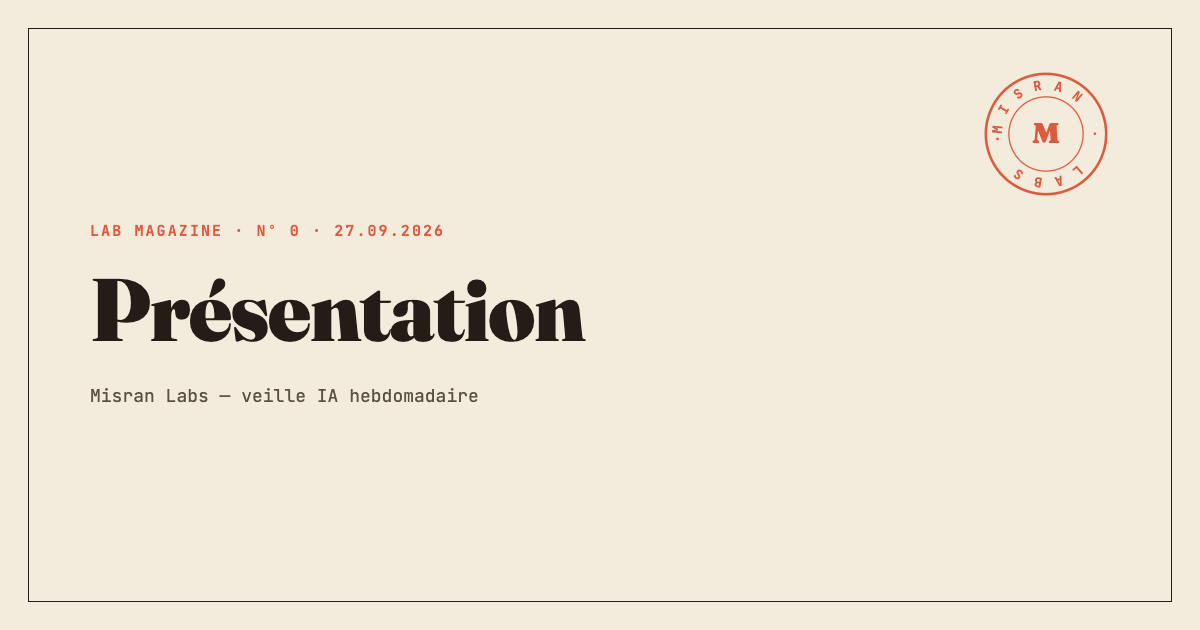
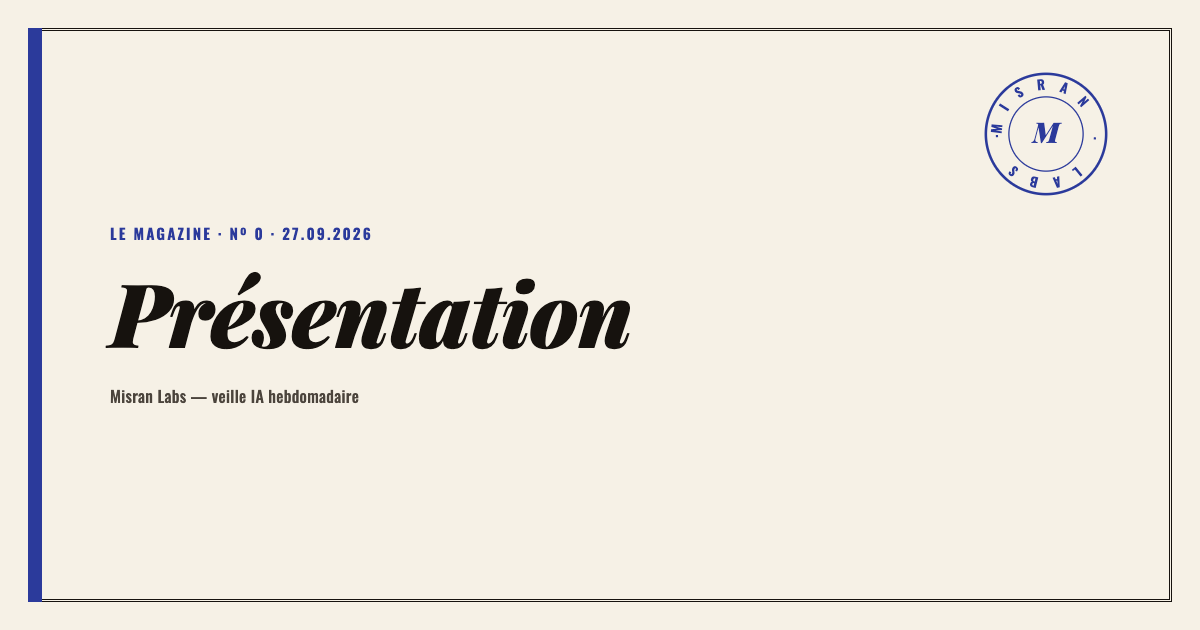
kiosque-annexes: step 5, house palette for OG previews and theme-color (D5)

Changed region(s): [[0.0, 0.0302, 0.5242, 0.9651], [0.8017, 0.0905, 0.925, 0.3317]]

diff --git a/scripts/og-numero-template.html b/scripts/og-numero-template.html
@@ -5,7 +5,7 @@
 <link rel="preconnect" href="https://fonts.googleapis.com" />
 <link rel="preconnect" href="https://fonts.gstatic.com" crossorigin />
 <link
-  href="https://fonts.googleapis.com/css2?family=Fraunces:opsz,wght@9..144,900&family=JetBrains+Mono:wght@400;600;700&display=swap"
+  href="https://fonts.googleapis.com/css2?family=Playfair+Display:ital,wght@0,900;1,900&family=Oswald:wght@500;700&display=swap"
   rel="stylesheet"
 />
 <style>
@@ -13,13 +13,21 @@
   html, body {
     width: 1200px;
     height: 630px;
-    background: #f3ebdc;
+    background: #f6f1e6;
     overflow: hidden;
   }
   .frame {
     position: absolute;
     inset: 28px;
-    border: 1.5px solid #241c16;
+    border: 3px double #16120e;
+  }
+  .bandeau {
+    position: absolute;
+    top: 28px;
+    bottom: 28px;
+    left: 28px;
+    width: 14px;
+    background: #2b3a9b;
   }
   .content {
     position: absolute;
@@ -27,32 +35,33 @@
     display: flex;
     flex-direction: column;
     justify-content: center;
-    padding: 0 90px;
+    padding: 0 90px 0 110px;
   }
   .eyebrow {
-    font-family: 'JetBrains Mono', monospace;
+    font-family: 'Oswald', sans-serif;
     font-weight: 600;
     font-size: 15px;
     letter-spacing: 0.14em;
     text-transform: uppercase;
-    color: #dd5a3e;
+    color: #2b3a9b;
     margin-bottom: 22px;
   }
   h1 {
-    font-family: 'Fraunces', serif;
+    font-family: 'Playfair Display', serif;
+    font-style: italic;
     font-weight: 900;
     font-size: {{TAILLE_TITRE}}px;
     line-height: 1.05;
-    color: #241c16;
+    color: #16120e;
     letter-spacing: -0.01em;
     max-width: 760px;
   }
   .subtitle {
-    font-family: 'JetBrains Mono', monospace;
-    font-weight: 400;
-    font-size: 18px;
-    line-height: 1.5;
-    color: #5b5044;
+    font-family: 'Oswald', sans-serif;
+    font-weight: 500;
+    font-size: 16px;
+    letter-spacing: 0.02em;
+    color: #4b443c;
     margin-top: 26px;
   }
   .tampon { position: absolute; top: 70px; right: 90px; width: 128px; height: 128px; }
@@ -60,12 +69,13 @@
 </head>
 <body>
   <div class="frame"></div>
+  <div class="bandeau"></div>
   <svg class="tampon" viewBox="0 0 100 100" aria-hidden="true">
     <defs><path id="cercle" d="M50 50 m-34.5 0 a34.5 34.5 0 1 1 69 0 a34.5 34.5 0 1 1 -69 0"/></defs>
-    <circle cx="50" cy="50" r="47" fill="none" stroke="#dd5a3e" stroke-width="2"/>
-    <circle cx="50" cy="50" r="29" fill="none" stroke="#dd5a3e" stroke-width="1"/>
-    <text font-family="JetBrains Mono" font-size="10.4" font-weight="700" fill="#dd5a3e"><textPath href="#cercle" textLength="216" lengthAdjust="spacing">MISRAN · LABS · </textPath></text>
-    <text x="50" y="57" text-anchor="middle" font-family="Fraunces" font-weight="900" font-size="22" fill="#dd5a3e">M</text>
+    <circle cx="50" cy="50" r="47" fill="none" stroke="#2b3a9b" stroke-width="2"/>
+    <circle cx="50" cy="50" r="29" fill="none" stroke="#2b3a9b" stroke-width="1"/>
+    <text font-family="Oswald" font-size="10.4" font-weight="700" fill="#2b3a9b"><textPath href="#cercle" textLength="216" lengthAdjust="spacing">MISRAN · LABS · </textPath></text>
+    <text x="50" y="57" text-anchor="middle" font-family="Playfair Display" font-style="italic" font-weight="900" font-size="22" fill="#2b3a9b">M</text>
   </svg>
   <div class="content">
     <div class="eyebrow">{{EYEBROW}}</div>

diff --git a/scripts/share-previews.js b/scripts/share-previews.js
@@ -5,17 +5,17 @@ import { writeRssFeeds } from './rss.js'
 export const SITE_URL = 'https://misran-labs.vercel.app'
 
 const MAGAZINE_FIXED = {
-  title: 'Lab Magazine — veille IA hebdomadaire · Misran Labs',
+  title: 'Le Magazine — veille IA hebdomadaire · Misran Labs',
   description: 'Une veille IA chaque lundi, pour designers et développeurs.',
   image: 'og-magazine.png',
 }
 const PROJETS_FIXED = {
-  title: 'Projets — idées en développement · Misran Labs',
+  title: 'Les idées du Lab — idées en développement · Misran Labs',
   description: 'Des idées de produits numérotées, étudiées puis gardées ou arrêtées.',
   image: 'og-projets.png',
 }
 const PROJETS_FONCTIONNEMENT_FIXED = {
-  title: 'Comment fonctionnent les Projets · Misran Labs',
+  title: 'Comment fonctionnent les idées du Lab · Misran Labs',
   description: 'La routine du dimanche, les fiches publiques, les décisions.',
   image: 'og-projets.png',
 }
@@ -26,7 +26,7 @@ const BREVES_FIXED = {
 }
 const SUIVRE_FIXED = {
   title: 'Suivre le Lab · Misran Labs',
-  description: 'Pas de compte à créer : un lecteur RSS ou un réseau, et les nouveautés viennent à vous.',
+  description: 'Misran Labs, maison d’édition indépendante : pas de compte à créer, un lecteur RSS ou un réseau suffit pour que les nouveautés viennent à vous.',
   image: 'og-image.png',
 }
 const JEUX_FIXED = {
@@ -175,7 +175,7 @@ export function collectMagazineNumeros(rootDir) {
 
     pages.push({
       path: `/magazine/${dateFromName}`,
-      title: `Nº ${data.numero} — ${data.titre.fr} · Lab Magazine`,
+      title: `Nº ${data.numero} — ${data.titre.fr} · Le Magazine`,
       description: normalizeAndTruncate(data.edito.fr),
       image,
       type: 'article',

diff --git a/index.html b/index.html
@@ -5,7 +5,7 @@
     <link rel="icon" type="image/svg+xml" href="/favicon.svg" />
     <link rel="apple-touch-icon" sizes="180x180" href="/apple-touch-icon.png" />
     <meta name="viewport" content="width=device-width, initial-scale=1.0" />
-    <meta name="theme-color" content="#f3ebdc" />
+    <meta name="theme-color" content="#16120e" />
     <title>Misran Labs — le laboratoire de Michael Misran</title>
     <meta name="description" content="Vitrine de Michael Misran, designer UX/UI et développeur fullstack : expériences IA, design system, magazine de veille et idées de projets." />
     <meta property="og:type" content="website" />

diff --git a/scripts/og-numero.js b/scripts/og-numero.js
@@ -83,7 +83,7 @@ function generateOne(dateStr) {
     fail(`Chrome introuvable : ${CHROME_PATH}`)
   }
 
-  const eyebrow = `LAB MAGAZINE · Nº ${numero} · ${formatDateFr(parsedDate)}`
+  const eyebrow = `LE MAGAZINE · Nº ${numero} · ${formatDateFr(parsedDate)}`
   const template = fs.readFileSync(TEMPLATE_PATH, 'utf-8')
   const html = template
     .replaceAll('{{TAILLE_TITRE}}', String(titleFontSize(titreFr)))

diff --git a/missions/kiosque-annexes/PROGRESS.md b/missions/kiosque-annexes/PROGRESS.md
@@ -1,7 +1,7 @@
 # Mission kiosque-annexes — PROGRESS
 
 **Statut :** en cours
-**Prochaine action :** étape 5
+**Prochaine action :** étape 6
 **Blocages :** aucun
 
 ## État initial (cadrage, 2026-10-04, `refonte-kiosque` = 07a40cd)
@@ -28,3 +28,10 @@
 - Textes fr/en définis localement dans `Page404.jsx` (`PAGE404_TEXT`) : `src/i18n/ui.js` est hors périmètre de cette mission, donc pas touché. Les clés `notFound404*` y restent mais ne sont plus utilisées par cette page (`notFound404Tab` reste utilisé par `registry.js` pour l'onglet) — ménage possible dans une mission de finitions, noté en recommandation du RAPPORT.
 - `dist/404.html` (généré par `build404Html` dans `share-previews.js`, non touché à cette étape) garde son titre « Page introuvable · Misran Labs », cohérent avec « Page disparue » affichée ; sa description par défaut sera mise à jour à l'étape 5 (D5).
 - Vérifié moi-même dans le navigateur : FR et EN, aucune erreur console, aucun débordement à 375 px, les 5 liens présents et fonctionnels.
+
+## Étape 5 — aperçus et images OG (2026-10-04)
+- `og-numero-template.html` : papier `#f6f1e6`, encre `#16120e`, bandeau bleu `#2b3a9b` (titre-magazine) sur le bord gauche, titre en Playfair Display italique, étiquettes et tampon circulaire en Oswald (remplace Fraunces/JetBrains Mono/corail). Police chargée par le même unique `<link>` Google Fonts qu'avant, juste les familles changées (lu avant modif, comme demandé).
+- `og-numero.js` : eyebrow `LAB MAGAZINE` → `LE MAGAZINE` (D2). Régénéré les 2 images existantes (`public/og/magazine/2026-09-27.png`, `2026-09-28.png`) avec Chrome headless local — build OK, images vérifiées avec l'outil Read : palette maison + bandeau bleu visibles, voir DELEGATIONS.md pour rien (fait en session principale, pas de sous-agent ici).
+- `scripts/share-previews.js` : titres harmonisés au-delà de D2 strict (voir DECISIONS.md) — numéro de Magazine, `MAGAZINE_FIXED`, `PROJETS_FIXED`, `PROJETS_FONCTIONNEMENT_FIXED`. `SUIVRE_FIXED.description` porte la formule « Misran Labs, maison d'édition indépendante » (D5).
+- `index.html` : `theme-color` → `#16120e` uniquement, rien d'autre touché. Lien Google Fonts vérifié identique à son propre état d'avant cette mission (`git diff` sur la seule ligne theme-color) ; `git diff refonte-kiosque -- index.html` montre aussi un écart sur ce lien (refonte-kiosque a gagné une police `Chango` entre-temps, via une autre mission fusionnée) — normal pour des missions parallèles, je n'ai pas touché cette ligne donc un merge la reprendra sans conflit.
+- `npm run build` et lint ciblé : OK.

diff --git a/missions/kiosque-annexes/DECISIONS.md b/missions/kiosque-annexes/DECISIONS.md
@@ -6,3 +6,6 @@ Décisions prises sans Michael. Les décisions d'architecture sont dans SPEC.md.
 |---|---|---|---|
 | 2026-10-04 | 3 | `/suivre` : retrait de `MagazineMasthead` et `CaseFooter`, plus de section « Flux RSS »/« Réseaux » génériques (`SectionTitle`) | Doublons avec le Masthead/Colophon globaux du Shell (acquis de la refonte, déjà rendus sur chaque page) ; `SectionTitle` garde le style développeur (« // TITRE ») qui ne correspond plus à l'identité maison. Page404 (déjà en place) ne les utilise pas non plus. |
 | 2026-10-04 | 4 | `Page404.jsx` : textes fr/en définis localement (`PAGE404_TEXT`) plutôt que via `t(lang, ...)` de `src/i18n/ui.js` | `src/i18n/ui.js` est hors « Fichiers autorisés » de la SPEC (règle commune des missions parallèles) ; les clés `notFound404*` restent dans ce fichier mais ne sont plus lues par cette page, sauf `notFound404Tab` (onglet, via `registry.js`, non touché). |
+| 2026-10-04 | 5 | Pas de section Gazette ajoutée à `og-numero.js`/`og-numero-template.html` | D5 : « rouge pour la Gazette si des images de Gazette existent » — aucune image par jour n'existe pour la Gazette (`collectBrevesJours` réutilise l'image de rubrique du Magazine, D7 de la mission breves). Hors périmètre d'ajouter cette génération. |
+| 2026-10-04 | 5 | « Misran Labs, maison d'édition indépendante » placé dans `SUIVRE_FIXED.description` (aperçu de `/suivre`), pas dans `index.html` | D5 vise « les titres et descriptions par défaut de **share-previews.js** » — `index.html` n'est autorisé (D1) que pour `theme-color`, son propre titre/description restent donc l'ancien texte « Vitrine de Michael Misran... ». `/suivre` est la page la plus proche d'un « à propos » générique parmi les constantes FIXED de `share-previews.js`. |
+| 2026-10-04 | 5 | Renommé en plus des flux RSS : titre de chaque numéro du Magazine (`· Lab Magazine` → `· Le Magazine`), `MAGAZINE_FIXED.title`, `PROJETS_FIXED.title` et `PROJETS_FONCTIONNEMENT_FIXED.title` (« Projets » → « Les idées du Lab ») | L'objectif de la SPEC dit explicitement « tout ce qui sort du site (aperçus, images OG, flux) » doit avoir des noms cohérents, pas seulement `FEEDS`/`rss.js` listés en D2. Ces titres sont dans `scripts/share-previews.js`, un fichier autorisé. |

diff --git a/missions/kiosque-annexes/PLAN.md b/missions/kiosque-annexes/PLAN.md
@@ -8,6 +8,6 @@ Chaque étape indique l'agent et le modèle à utiliser.
 - [x] 2. Noms harmonisés : `FEEDS` dans `suivreText.js` et titres des flux dans `scripts/rss.js` (D2) → sous-agent (Haiku)
 - [x] 3. `/suivre` en bulletin d'abonnement, avec `SuivreBandeau` (D3) → session principale (Sonnet)
 - [x] 4. `Page404.jsx` en avis de recherche, et cohérence de `dist/404.html` (D4) → session principale (Sonnet)
-- [ ] 5. Aperçus et images OG : `og-numero-template.html`, `og-numero.js`, les textes par défaut de `share-previews.js` et le `theme-color` (D5). Lire les scripts avant de changer quoi que ce soit → session principale (Sonnet)
+- [x] 5. Aperçus et images OG : `og-numero-template.html`, `og-numero.js`, les textes par défaut de `share-previews.js` et le `theme-color` (D5). Lire les scripts avant de changer quoi que ce soit → session principale (Sonnet)
 - [ ] 6. Vérification finale : build, lint et greps du critère 1 par la session principale ; les autres critères dans le navigateur (1366 px et 375 px, FR et EN) → verificateur (Haiku). S'il ne se lance pas après une nouvelle tentative, la session principale le fait elle-même.
 - [ ] 7. RAPPORT.md (rappeler que la PR vise `refonte-kiosque`) → session principale (Sonnet)
